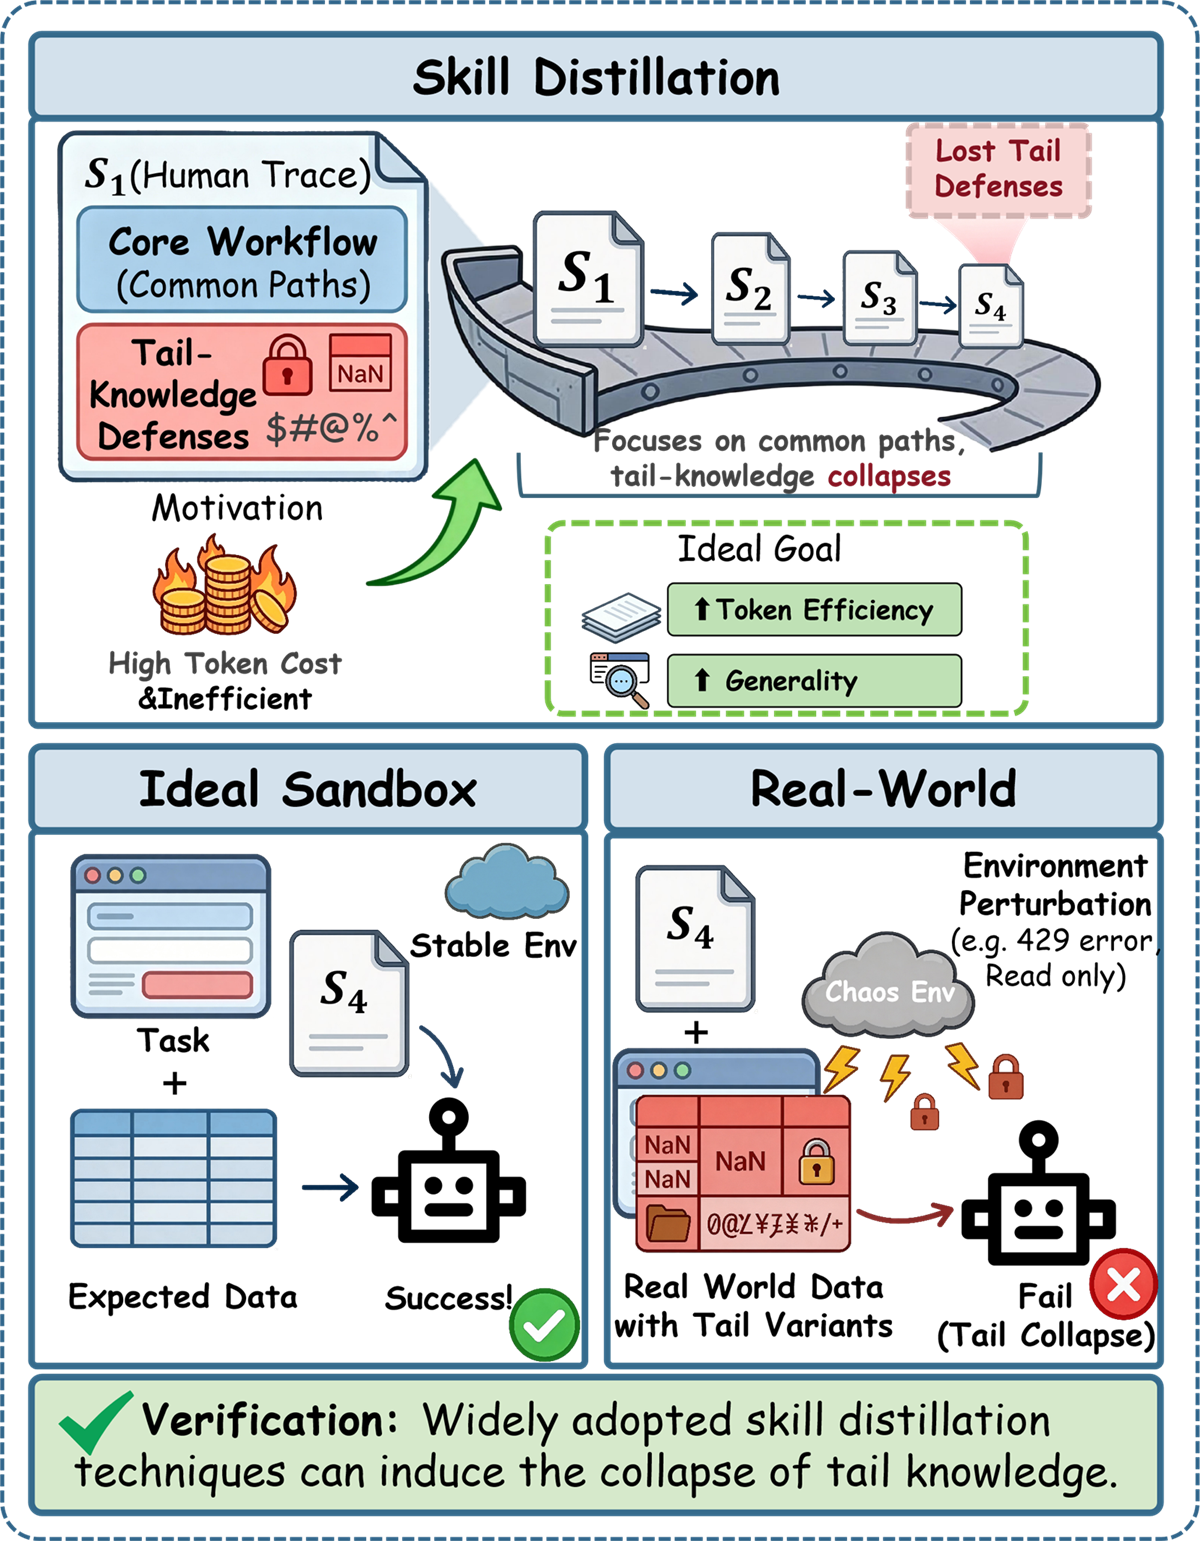
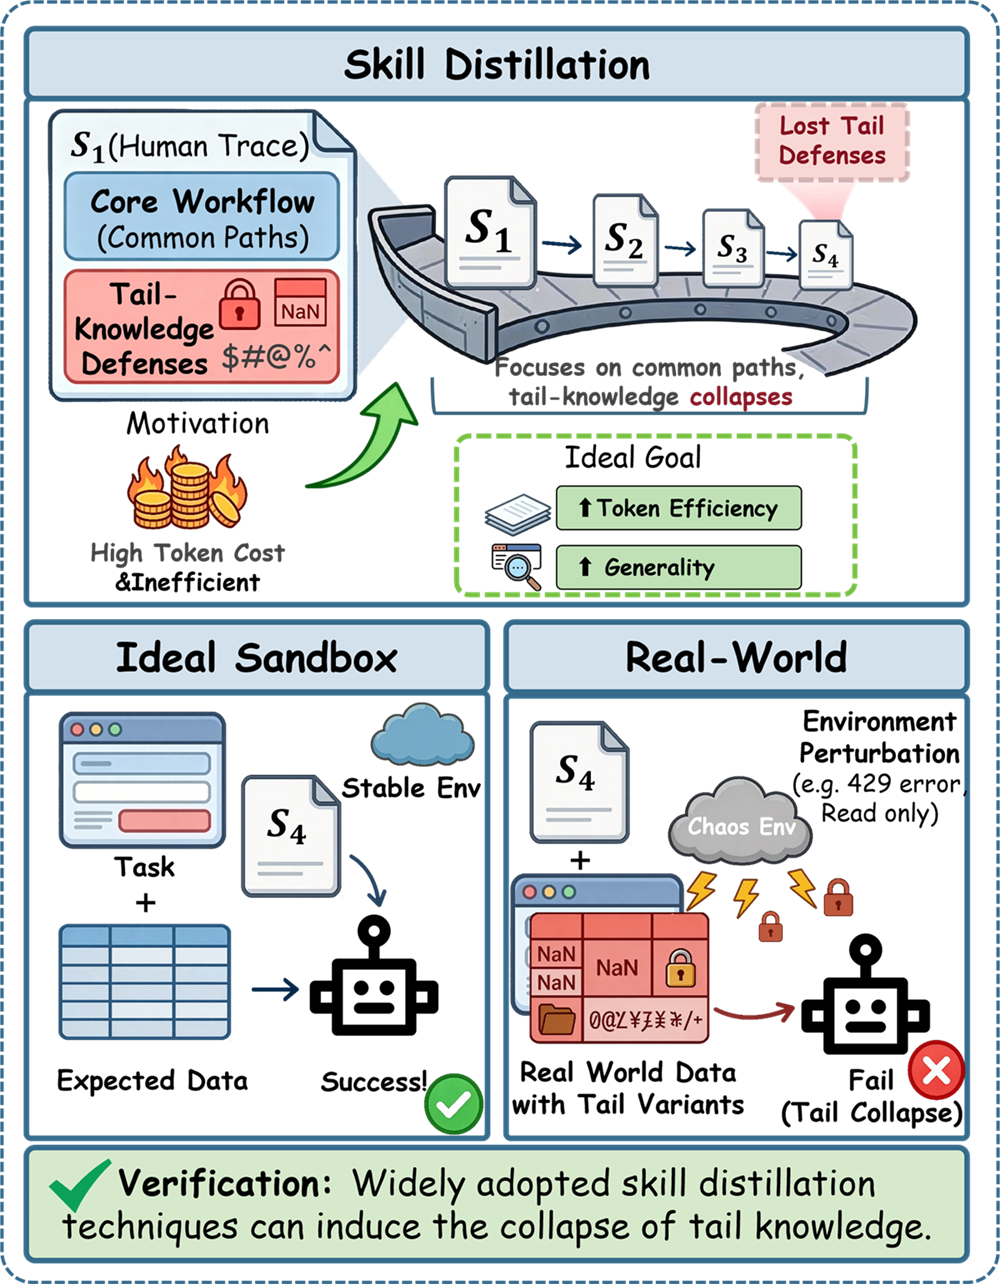
fix: reduce loaded image payload under budget

diff --git a/index.html b/index.html
@@ -124,7 +124,7 @@
           <h2 id="introduction-title">Introduction</h2>
           <figure class="image-figure intro-figure">
             <div class="image-frame">
-              <img src="static/images/introduction-infographic.png" alt="TailSkills infographic showing recursive skill distillation from S1 to S4 and contrasting ideal sandbox success with real-world tail failure." width="1200" height="1541" loading="lazy" decoding="async">
+              <img src="static/images/introduction-infographic.png" alt="TailSkills infographic showing recursive skill distillation from S1 to S4 and contrasting ideal sandbox success with real-world tail failure." width="1000" height="1284" loading="lazy" decoding="async">
             </div>
             <figcaption>
               Recursive skill distillation compresses a robust skill while disproportionately eroding rare exception handling.